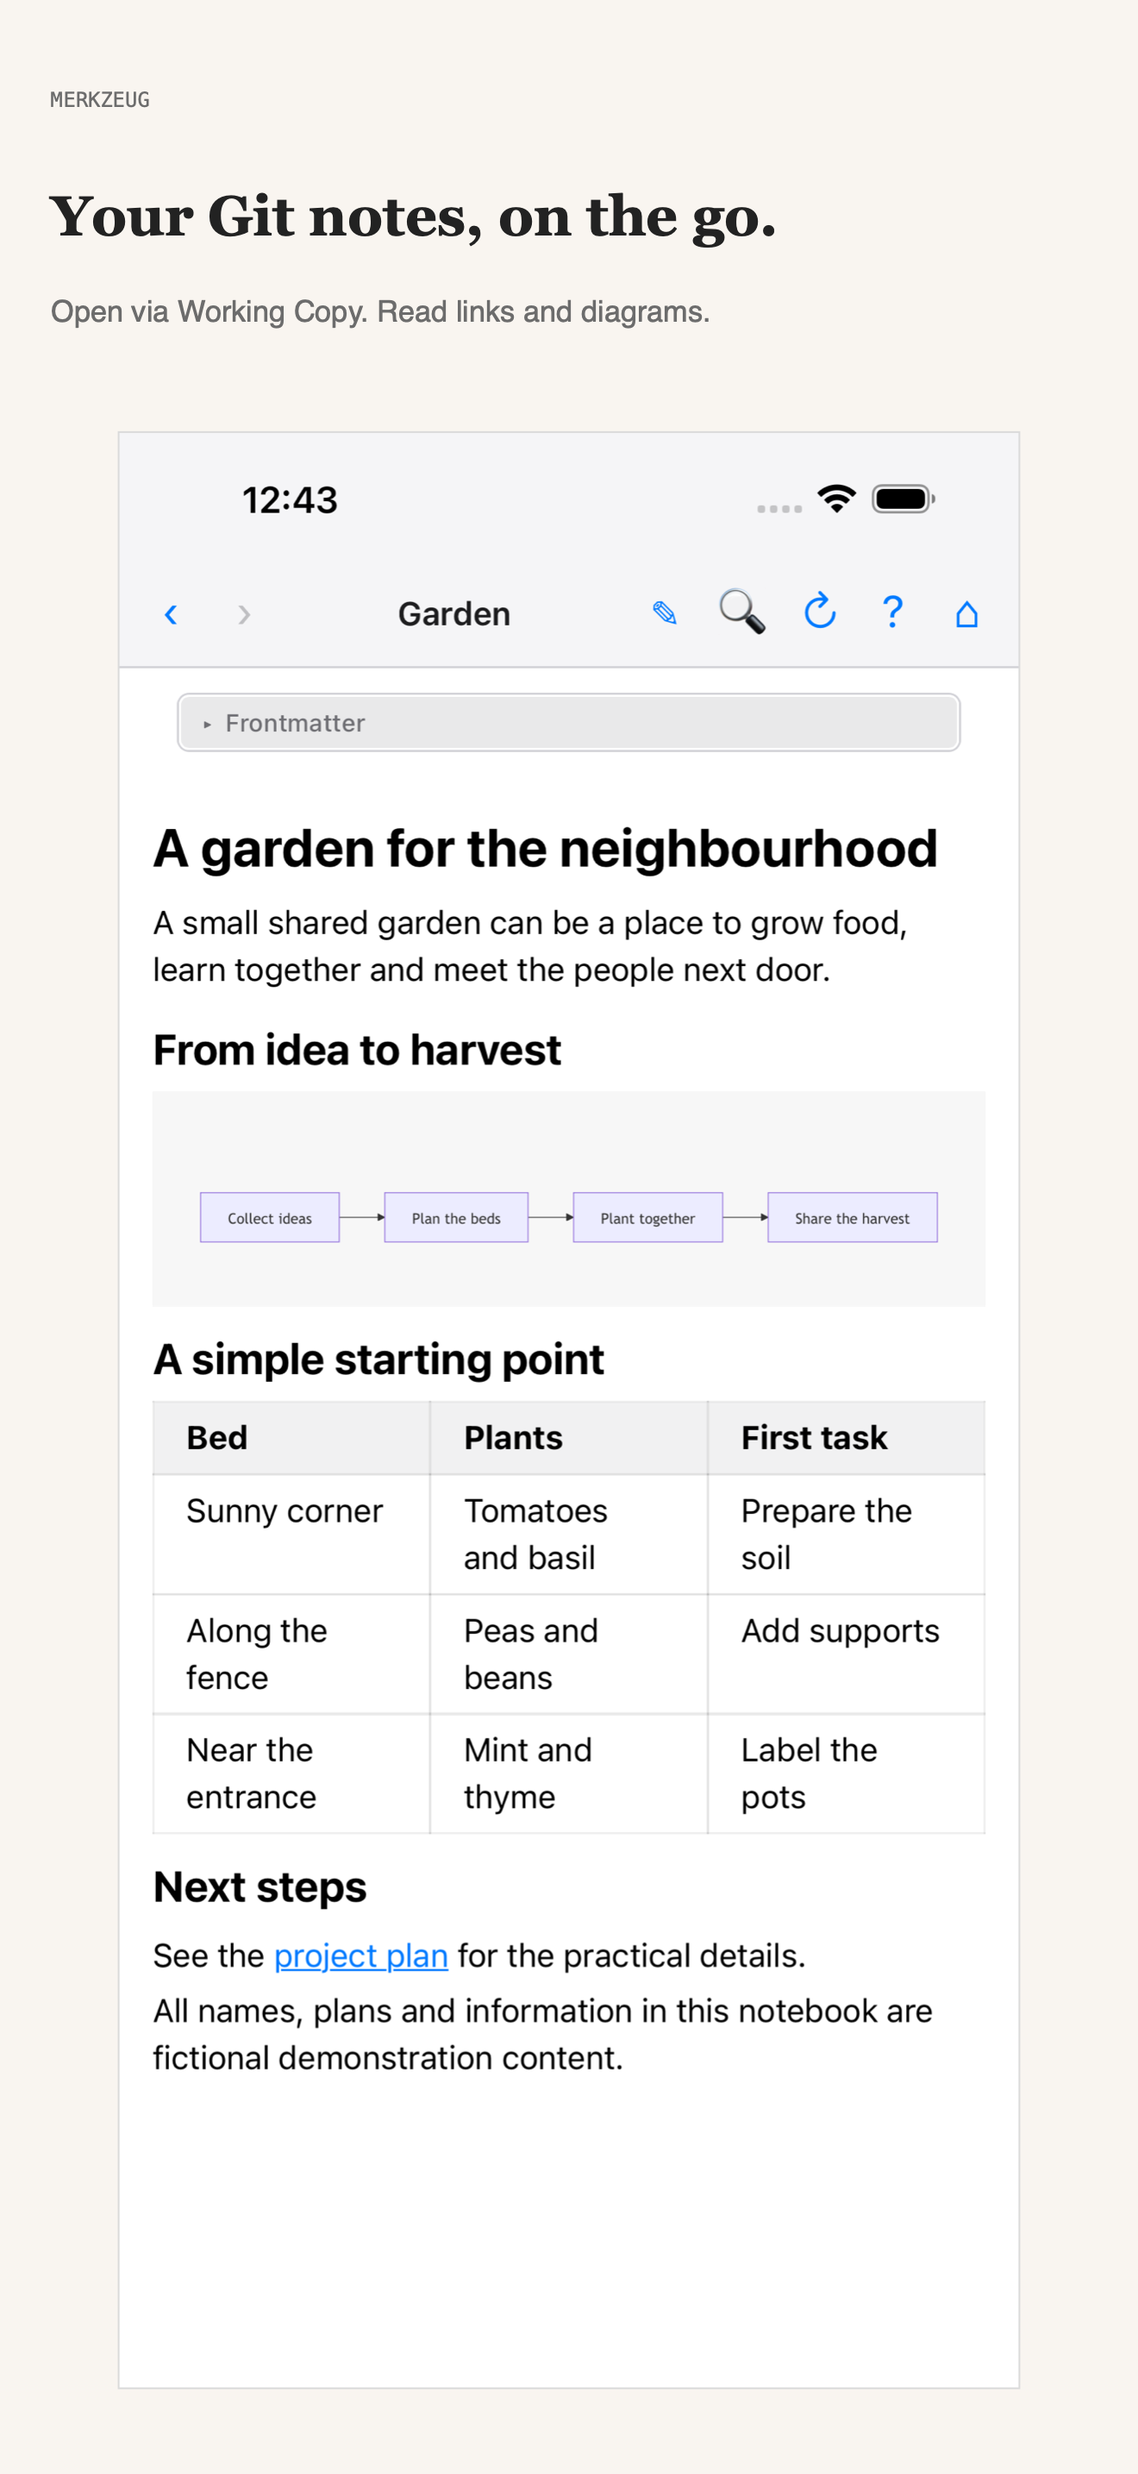
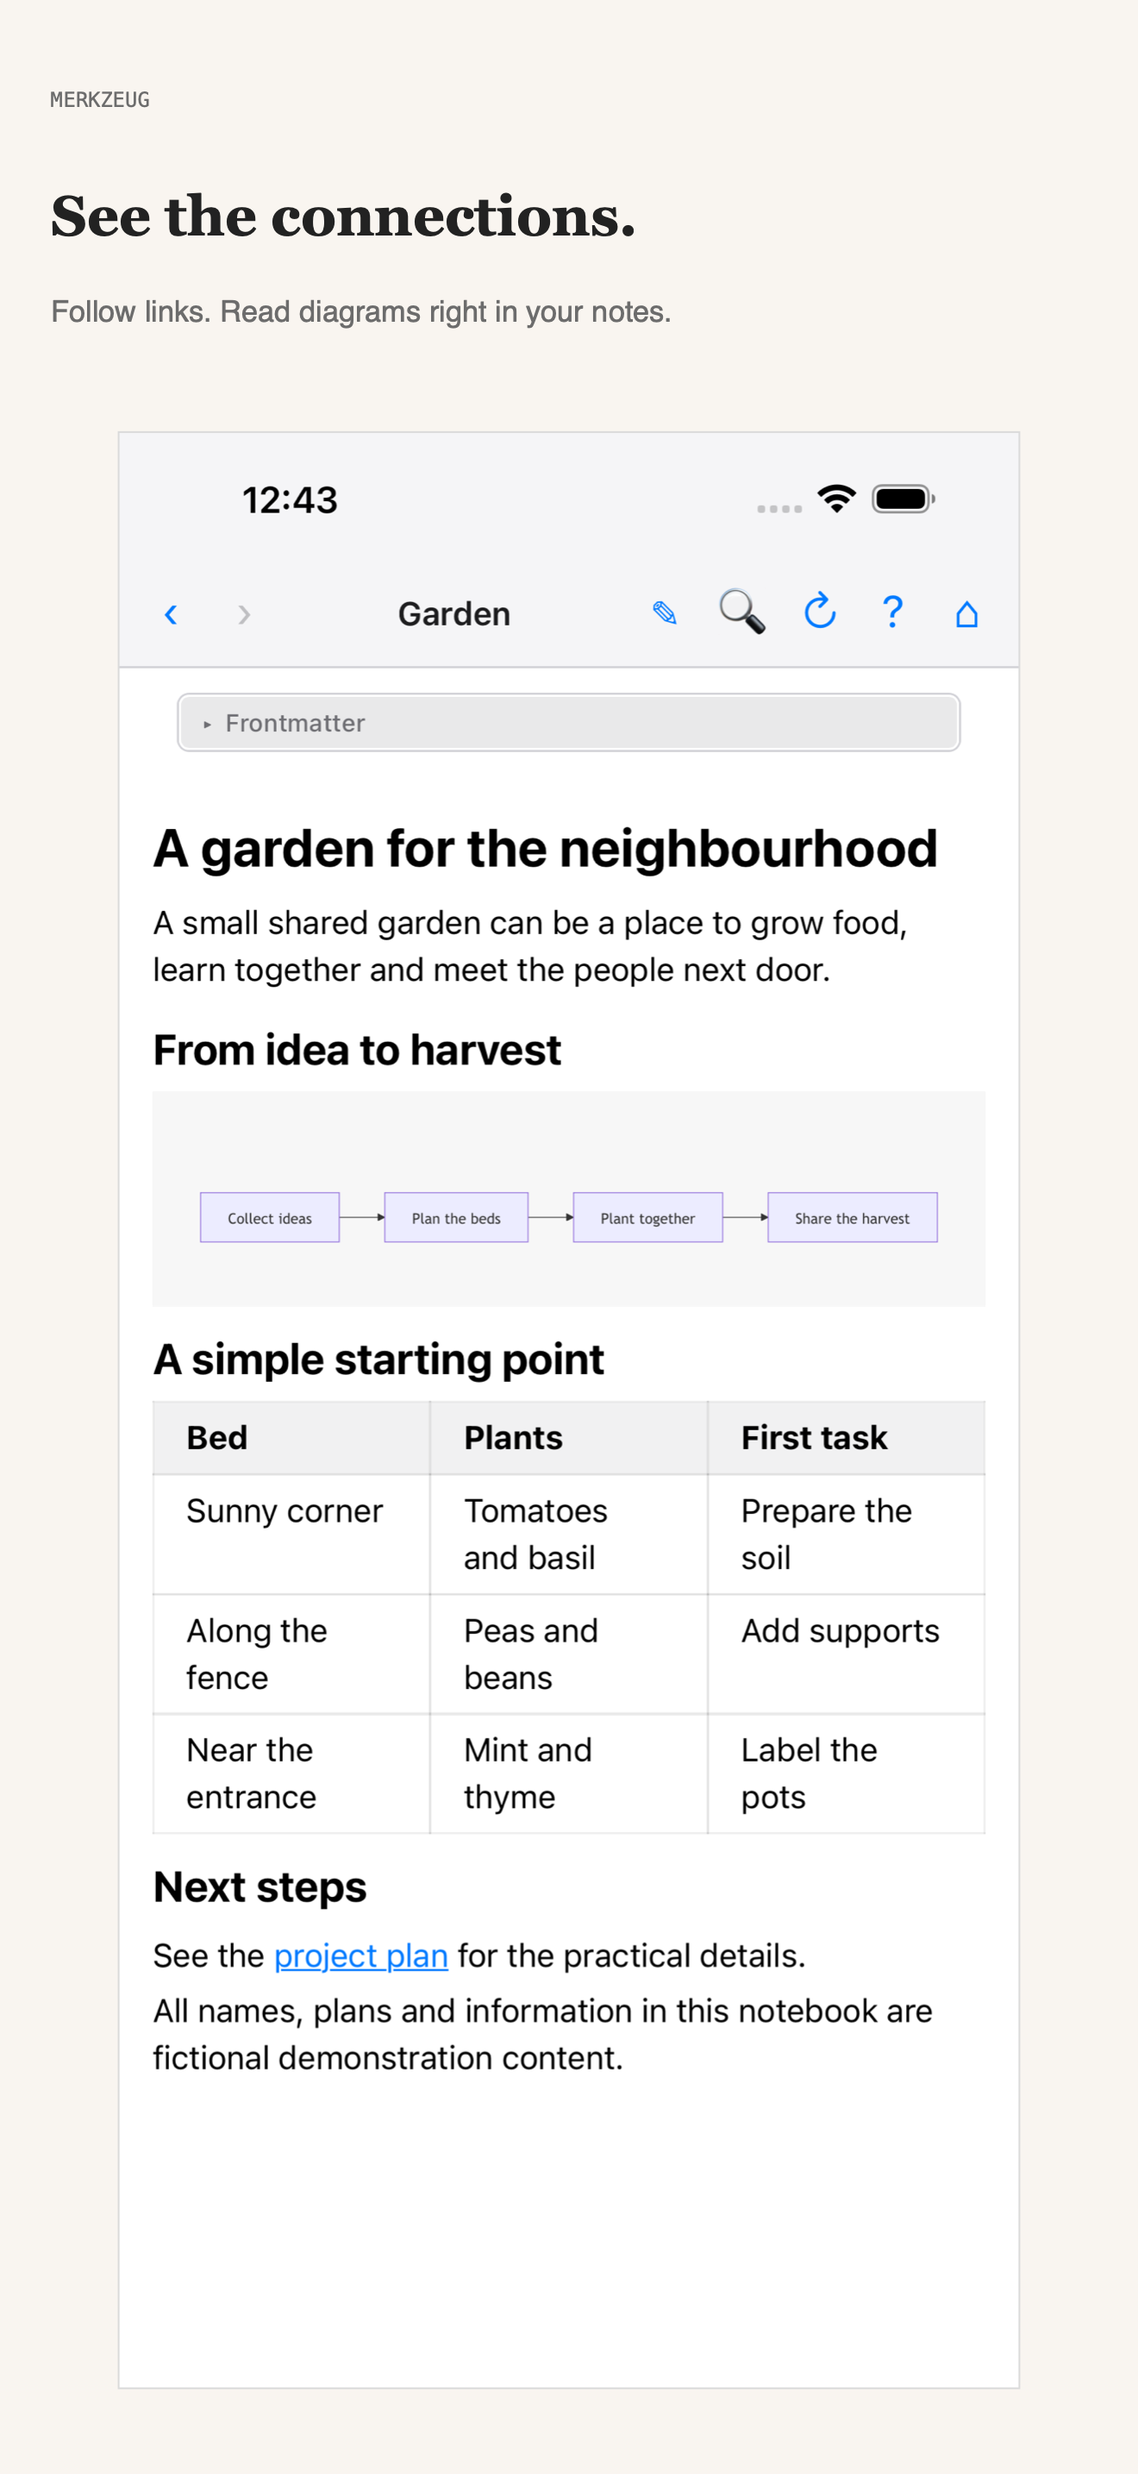
Add calendar meeting-note screenshots and requested Store ordering (#32)

diff --git a/mobile/ios/App/ScreenshotTests/ScreenshotTests.swift b/mobile/ios/App/ScreenshotTests/ScreenshotTests.swift
@@ -18,8 +18,8 @@ final class ScreenshotTests: XCTestCase {
         let app = XCUIApplication()
         app.launchArguments = ["-AppleLanguages", "(\(locale))", "-AppleLocale", locale == "de" ? "de_AT" : "en_US"]
         app.launchEnvironment = ["MERKZEUG_DEMO_MODE": "1", "MERKZEUG_DEMO_FILES": String(data: try JSONSerialization.data(withJSONObject: files), encoding: .utf8)!, "MERKZEUG_DEMO_LOCALE": locale]
-        for scene in ["writing", "diagram", "frontmatter"] {
-            app.launchEnvironment["MERKZEUG_DEMO_NOTE"] = scene == "diagram" ? (locale == "de" ? "/Projekte/Garten.md" : "/Projects/Garden.md") : (locale == "de" ? "/Willkommen.md" : "/Welcome.md")
+        for scene in ["writing", "diagram", "git", "frontmatter"] {
+            app.launchEnvironment["MERKZEUG_DEMO_NOTE"] = ["diagram", "git"].contains(scene) ? (locale == "de" ? "/Projekte/Garten.md" : "/Projects/Garden.md") : (locale == "de" ? "/Willkommen.md" : "/Welcome.md")
             app.launchEnvironment["MERKZEUG_DEMO_SCENE"] = scene
             app.launch()
             XCTAssertTrue(app.otherElements["merkzeug-screenshot-ready"].waitForExistence(timeout: 60), "Editor, fonts and diagram must finish rendering")
@@ -28,7 +28,7 @@ final class ScreenshotTests: XCTestCase {
             let name = "\(edition)-\(locale)-\(scene)"
             let attachment = XCTAttachment(screenshot: raw)
             attachment.name = "raw-" + name; attachment.lifetime = .keepAlways; add(attachment)
-            let caption = try XCTUnwrap(captions[locale]?[scene == "diagram" ? "repository" : scene])
+            let caption = try XCTUnwrap(captions[locale]?[scene == "git" ? "repository" : scene])
             let framed = try ScreenshotFrame.render(try XCTUnwrap(raw.image.cgImage), title: caption.title, subtitle: caption.subtitle)
             let store = XCTAttachment(data: framed, uniformTypeIdentifier: "public.png")
             store.name = "store-" + name; store.lifetime = .keepAlways; add(store)

diff --git a/crossplatform/src/renderer/src/util/meetingNote.ts b/crossplatform/src/renderer/src/util/meetingNote.ts
@@ -1,4 +1,4 @@
-import { t as translate } from '@merkzeug/core/i18n'
+import { t as translate, getLocale } from '@merkzeug/core/i18n'
 /** Erzeugt Dateiname und Inhalt einer Meeting-Notiz aus einem Kalendertermin. */
 
 import type { CalendarEvent, CalendarPerson } from '../../../shared/types'
@@ -22,7 +22,7 @@ export function meetingTimeLabel(ev: CalendarEvent): string {
   return `${localTime(new Date(ev.start))}–${localTime(new Date(ev.end))}`
 }
 
-const bodyDayFormat = new Intl.DateTimeFormat('de-DE', {
+const bodyDayFormat = new Intl.DateTimeFormat(getLocale(), {
   weekday: 'short',
   day: '2-digit',
   month: '2-digit',
@@ -84,7 +84,7 @@ export function meetingNoteContent(ev: CalendarEvent): string {
   // Organisator zuerst, ohne Dublette, falls er auch als Teilnehmer geführt wird
   const checklist: string[] = []
   const organizerName = ev.organizer?.name ?? ev.organizer?.email
-  if (organizerName) checklist.push(`${organizerName} (Organisator)`)
+  if (organizerName) checklist.push(`${organizerName} (${translate("Organizer")})`)
   for (const a of ev.attendees) {
     const name = a.name ?? a.email
     if (!name) continue
@@ -93,10 +93,10 @@ export function meetingNoteContent(ev: CalendarEvent): string {
     if (!isOrganizer) checklist.push(name)
   }
   if (checklist.length > 0) {
-    lines.push('## Teilnehmer', '')
+    lines.push(`## ${translate('Attendees')}`, '')
     for (const name of checklist) lines.push(`- [ ] ${name}`)
     lines.push('')
   }
-  lines.push('## Agenda', '', '## Notizen', '', '## Aufgaben', '')
+  lines.push('## Agenda', '', `## ${translate('Notes')}`, '', `## ${translate('Tasks')}`, '')
   return lines.join('\n')
 }

diff --git a/store/automation/FrameMain.swift b/store/automation/FrameMain.swift
@@ -12,7 +12,7 @@ import ImageIO
         for file in try FileManager.default.contentsOfDirectory(at: source, includingPropertiesForKeys: nil).sorted(by: { $0.path < $1.path }) where file.pathExtension == "png" {
             let parts = file.deletingPathExtension().lastPathComponent.split(separator: "-").map(String.init)
             guard parts.count == 3, ["macos", "iphone", "ipad"].contains(parts[0]),
-                  let caption = captions[parts[1]]?[parts[0] != "macos" && parts[2] == "diagram" ? "repository" : parts[2]],
+                  let caption = captions[parts[1]]?[parts[0] != "macos" && parts[2] == "git" ? "repository" : parts[2]],
                   let imageSource = CGImageSourceCreateWithURL(file as CFURL, nil),
                   let image = CGImageSourceCreateImageAtIndex(imageSource, 0, nil) else { throw Failure.invalidFile(file.lastPathComponent) }
             let data = try ScreenshotFrame.render(image, title: caption.title, subtitle: caption.subtitle)

diff --git a/scripts/tests/store-screenshots.test.ts b/scripts/tests/store-screenshots.test.ts
@@ -16,7 +16,8 @@ test('JWT is ES256 with a short expiry and no secret in the payload',()=>{
  assert.ok(verify('sha256',Buffer.from(`${head}.${body}`),{key:publicKey,dsaEncoding:'ieee-p1363'},Buffer.from(sig,'base64url')));
 });
 test('reviewed bundle is complete and integrity validated',async()=>{
- const b=await loadBundle('store/upload/manifest.json');assert.equal(b.groups.length,6);assert.equal(b.groups.flatMap(g=>g.images).length,22);
+ const b=await loadBundle('store/upload/manifest.json');assert.equal(b.groups.length,6);assert.equal(b.groups.flatMap(g=>g.images).length,28);
+ for(const g of b.groups) assert.deepEqual(g.images.map(i=>i.scene),g.platform==='MAC_OS'?['writing','diagram','calendar','pdf','git','frontmatter']:['writing','diagram','git','frontmatter']);
 });
 test('planner preserves existing sets by default and detects identical content',async()=>{
  const b={appId:'1',groups:[group]};

diff --git a/mobile/ios/App/App/MerkzeugViewController.swift b/mobile/ios/App/App/MerkzeugViewController.swift
@@ -22,7 +22,7 @@ class MerkzeugViewController: CAPBridgeViewController {
         (() => {
           const editor = document.querySelector('.ProseMirror');
           if (!editor || !editor.querySelector('h1') || document.fonts.status !== 'loaded') return false;
-          if ('\(scene)' === 'diagram' && !document.querySelector('.mermaid-preview svg')) return false;
+          if (['diagram','git'].includes('\(scene)') && !document.querySelector('.mermaid-preview svg')) return false;
           if ('\(scene)' === 'frontmatter') {
             const button = [...document.querySelectorAll('button')].find(b => b.textContent.includes('Frontmatter'));
             if (button && !document.querySelector('.frontmatter-input')) { button.click(); return false; }

diff --git a/crossplatform/src/renderer/src/components/MeetingNoteDialog.tsx b/crossplatform/src/renderer/src/components/MeetingNoteDialog.tsx
@@ -1,4 +1,4 @@
-import { t as translate } from '@merkzeug/core/i18n'
+import { t as translate, getLocale } from '@merkzeug/core/i18n'
 import { useEffect, useMemo, useRef, useState } from 'react'
 import type { CalendarEvent, CalendarResult } from '../../../shared/types'
 import { localDate, meetingTimeLabel } from '../util/meetingNote'
@@ -19,7 +19,7 @@ const SEARCH_DAYS = 90
 /** Schlüssel zum Deduplizieren (Serientermine haben dieselbe id je Vorkommen nicht) */
 const eventKey = (ev: CalendarEvent): string => `${ev.id}@${ev.start}`
 
-const dayFormat = new Intl.DateTimeFormat('de-DE', {
+const dayFormat = new Intl.DateTimeFormat(getLocale(), {
   weekday: 'short',
   day: '2-digit',
   month: '2-digit',

diff --git a/packages/core/src/locales/de.ts b/packages/core/src/locales/de.ts
@@ -1,5 +1,8 @@
 /** German translations; English message text is the stable source key. */
 export const de: Readonly<Record<string, string>> = {
+  "Organizer": "Organisator",
+  "Attendees": "Teilnehmer",
+  "Tasks": "Aufgaben",
   "PDF templates": "PDF-Vorlagen",
   "Templates folder": "Vorlagen-Ordner",
   "missing": "fehlt",

diff --git a/scripts/capture-mac-demo.py b/scripts/capture-mac-demo.py
@@ -12,7 +12,7 @@ ROOT = Path(__file__).resolve().parents[1]
 parser = argparse.ArgumentParser(description=__doc__)
 parser.add_argument('output', type=Path)
 parser.add_argument('--locale', choices=['en', 'de'])
-parser.add_argument('--scene', choices=['writing', 'diagram', 'frontmatter', 'git', 'pdf'])
+parser.add_argument('--scene', choices=['writing', 'diagram', 'frontmatter', 'git', 'pdf', 'calendar'])
 args = parser.parse_args()
 args.output.mkdir(parents=True, exist_ok=True)
 resolved = subprocess.check_output(['node', '-e', "const executable = require('electron'); console.log(JSON.stringify(executable))"], cwd=ROOT/'crossplatform', text=True)
@@ -25,6 +25,7 @@ for language, scenes in {'en': {'writing': 'Welcome', 'diagram': 'Projects;;Gard
     welcome = 'Welcome' if language == 'en' else 'Willkommen'
     template = 'Project report' if language == 'en' else 'Projektbericht'
     scenes['git'] = welcome + ";;js:document.querySelector('.git-summary')?.click()"
+    scenes['calendar'] = welcome + ";;js:Date.now = () => Date.parse('2026-09-10T08:00:00Z'); undefined;;menu:newMeetingNote;;js:document.querySelector('.meeting-row')?.click(); undefined;;menu:newMeetingNote"
     scenes['pdf'] = welcome + ';;menu:exportPdf;;settingswindow'
     for scene, clicks in scenes.items():
         if args.scene and scene != args.scene: continue
@@ -54,17 +55,26 @@ for language, scenes in {'en': {'writing': 'Welcome', 'diagram': 'Projects;;Gard
                 (template_dir/'deckblatt.html').write_text('<h1>{{titel}}</h1>')
                 (demo/'.merkzeug').mkdir(exist_ok=True)
                 (demo/'.merkzeug/settings.json').write_text(json.dumps({'pdfTemplate':template}))
+            if scene == 'calendar':
+                title = 'Garden project planning' if language == 'en' else 'Planung Gemeinschaftsgarten'
+                fixture = Path(profile)/'calendar.json'
+                fixture.write_text(json.dumps({'events':[{'id':'demo-planning','title':title,'start':'2026-09-10T09:00:00Z','end':'2026-09-10T10:00:00Z','allDay':False,'location':'Garden studio' if language == 'en' else 'Gartenatelier','calendar':'Project team' if language == 'en' else 'Projektteam','organizer':{'name':'Alex Example'},'attendees':[{'name':'Sam Example'},{'name':'Robin Example'}]}]}))
             env = dict(os.environ, MERKZEUG_SCREENSHOT=str(target), MERKZEUG_SCREENSHOT_PROFILE=profile,
                        MERKZEUG_VAULT=str(demo), MERKZEUG_CLICK=clicks, MERKZEUG_TEMPLATES_ROOT=str(Path(profile)/'PDF Templates'),
-                       MERKZEUG_SCREENSHOT_READY='.mermaid-preview svg' if scene == 'diagram' else '.git-detail' if scene == 'git' else '.ProseMirror h1')
+                       MERKZEUG_SCREENSHOT_READY='.mermaid-preview svg' if scene == 'diagram' else '.git-detail' if scene == 'git' else '.meeting-row' if scene == 'calendar' else '.ProseMirror h1')
             if scene == 'pdf':
                 env.update(MERKZEUG_PDF_TARGET=str((args.output/f'macos-{language}-template-proof.pdf').resolve()), MERKZEUG_PDF_TEMPLATE=template)
+            if scene == 'calendar':
+                env.update(MERKZEUG_CALENDAR_FIXTURE=str(fixture), TZ='UTC')
             env.pop('ELECTRON_RUN_AS_NODE', None)
             subprocess.run([str(electron), str(ROOT / 'crossplatform'), '--lang=' + language], env=env, check=True, timeout=90)
             if scene == 'pdf':
                 proof = args.output/f'macos-{language}-template-proof.pdf'
                 if not proof.is_file() or not proof.read_bytes().startswith(b'%PDF-'): raise SystemExit('Template PDF export did not finish')
                 target.with_name(target.stem + '-settings.png').replace(target)
+            if scene == 'calendar':
+                notes = list(demo.rglob('2026-09-10-*.md'))
+                if len(notes) != 1 or 'attendees:' not in notes[0].read_text(): raise SystemExit('Calendar event did not create a meeting note')
             if not target.is_file(): raise SystemExit('Capture failed: ' + str(target))
             print(target, flush=True)
 print('Desktop build candidates; recapture from the signed MAS build before store upload.')

diff --git a/scripts/reframe-store-ios.py b/scripts/reframe-store-ios.py
@@ -12,12 +12,13 @@ entries={entry['file']:entry for entry in original['screenshots']}
 result={'testSummary':original.get('testSummary'), 'sourceManifestSHA256':hashlib.sha256((a.source/'manifest.json').read_bytes()).hexdigest(), 'status':'Existing native captures with updated captions; visual review required', 'screenshots':[]}
 for edition in ('iphone','ipad'):
  for language in ('en','de'):
-  for scene in ('writing','diagram','frontmatter'):
+  for scene in ('writing','diagram','git','frontmatter'):
    name=f'{edition}/raw/{edition}-{language}-{scene}.png'
-   data=(a.source/name).read_bytes()
-   if hashlib.sha256(data).hexdigest()!=entries[name]['sha256']: p.error('Raw capture checksum mismatch')
-   target=a.output/name;target.parent.mkdir(parents=True,exist_ok=True);shutil.copyfile(a.source/name,target)
-   result['screenshots'].append(entries[name])
+   original_name=name.replace('-git.png','-diagram.png') if scene == 'git' and name not in entries else name
+   data=(a.source/original_name).read_bytes()
+   if hashlib.sha256(data).hexdigest()!=entries[original_name]['sha256']: p.error('Raw capture checksum mismatch')
+   target=a.output/name;target.parent.mkdir(parents=True,exist_ok=True);shutil.copyfile(a.source/original_name,target)
+   result['screenshots'].append({**entries[original_name],'file':name,'rawSource':original_name})
  subprocess.run(['python3',str(Path(__file__).with_name('frame-store-screenshots.py')),str(a.output/edition/'raw'),str(a.output/edition/'store'),'--edition',edition],check=True)
  framed=json.loads((a.output/edition/'store/manifest.json').read_text())
  result.setdefault('composition',{})[edition]={k:v for k,v in framed.items() if k!='screenshots'}

diff --git a/scripts/export-screenshot-results.py b/scripts/export-screenshot-results.py
@@ -28,7 +28,7 @@ def main():
         for test in json.loads((folder/'manifest.json').read_text()):
             for attachment in test['attachments']:
                 name = attachment['suggestedHumanReadableName']
-                match = re.search(r'(raw|store)-(iphone|ipad)-(en|de)-(writing|diagram|frontmatter)', name)
+                match = re.search(r'(raw|store)-(iphone|ipad)-(en|de)-(writing|diagram|git|frontmatter)', name)
                 if not match: continue
                 kind, edition, language, scene = match.groups()
                 target = args.output/edition/kind/f'{edition}-{language}-{scene}.png'
@@ -48,7 +48,7 @@ def main():
         for edition in ('iphone','ipad'):
             if not (args.output/edition).exists(): continue
             for kind in ('raw','store'):
-                expected={f'{edition}-{language}-{scene}.png' for language in ('en','de') for scene in ('writing','diagram','frontmatter')}
+                expected={f'{edition}-{language}-{scene}.png' for language in ('en','de') for scene in ('writing','diagram','git','frontmatter')}
                 actual={p.name for p in (args.output/edition/kind).glob('*.png')}
                 if actual != expected: raise ValueError(f'Incomplete {edition}/{kind}: missing {expected-actual}')
         shutil.copyfile(folder/'manifest.json',args.output/'xcresult-attachments.json')

diff --git a/scripts/prepare-store-upload.py b/scripts/prepare-store-upload.py
@@ -16,7 +16,7 @@ for edition,source,display in [('iphone',a.ios/'iphone/store','APP_IPHONE_67'),(
  manifest['provenance'][edition]={'manifestSHA256':hashlib.sha256(origin.read_bytes()).hexdigest(),'commit':source_manifest.get('commit'),'source':'Electron CI' if edition=='macos' else 'Xcode Cloud xcresult'}
  for lang,locale in [('en','en-US'),('de','de-DE')]:
   group={'platform':'MAC_OS' if edition=='macos' else 'IOS','locale':locale,'displayType':display,'images':[]}
-  for scene in (['git','pdf','writing','diagram','frontmatter'] if edition=='macos' else ['diagram','writing','frontmatter']):
+  for scene in (['writing','diagram','calendar','pdf','git','frontmatter'] if edition=='macos' else ['writing','diagram','git','frontmatter']):
    name=f'{edition}-{lang}-{scene}.png';image=source/name;digest=hashlib.sha256(image.read_bytes()).hexdigest()
    key=name if edition=='macos' else f'{edition}/store/{name}'
    if entries[key]['sha256']!=digest: p.error(f'Capture provenance mismatch: {name}')

diff --git a/scripts/frame-store-screenshots.py b/scripts/frame-store-screenshots.py
@@ -24,7 +24,7 @@ def main():
     parser.add_argument('output', type=Path)
     parser.add_argument('--edition', choices=SIZES, required=True)
     args = parser.parse_args()
-    expected = {f'{args.edition}-{lang}-{scene}.png' for lang in ('en','de') for scene in (('writing','diagram','frontmatter','git','pdf') if args.edition == 'macos' else ('writing','diagram','frontmatter'))}
+    expected = {f'{args.edition}-{lang}-{scene}.png' for lang in ('en','de') for scene in (('writing','diagram','frontmatter','git','pdf','calendar') if args.edition == 'macos' else ('writing','diagram','git','frontmatter'))}
     if {p.name for p in args.raw.glob('*.png')} != expected: parser.error('Require the complete set of localized scene PNGs in raw folder')
     for name in expected:
         dimensions = inspect(args.raw/name)[:2]
